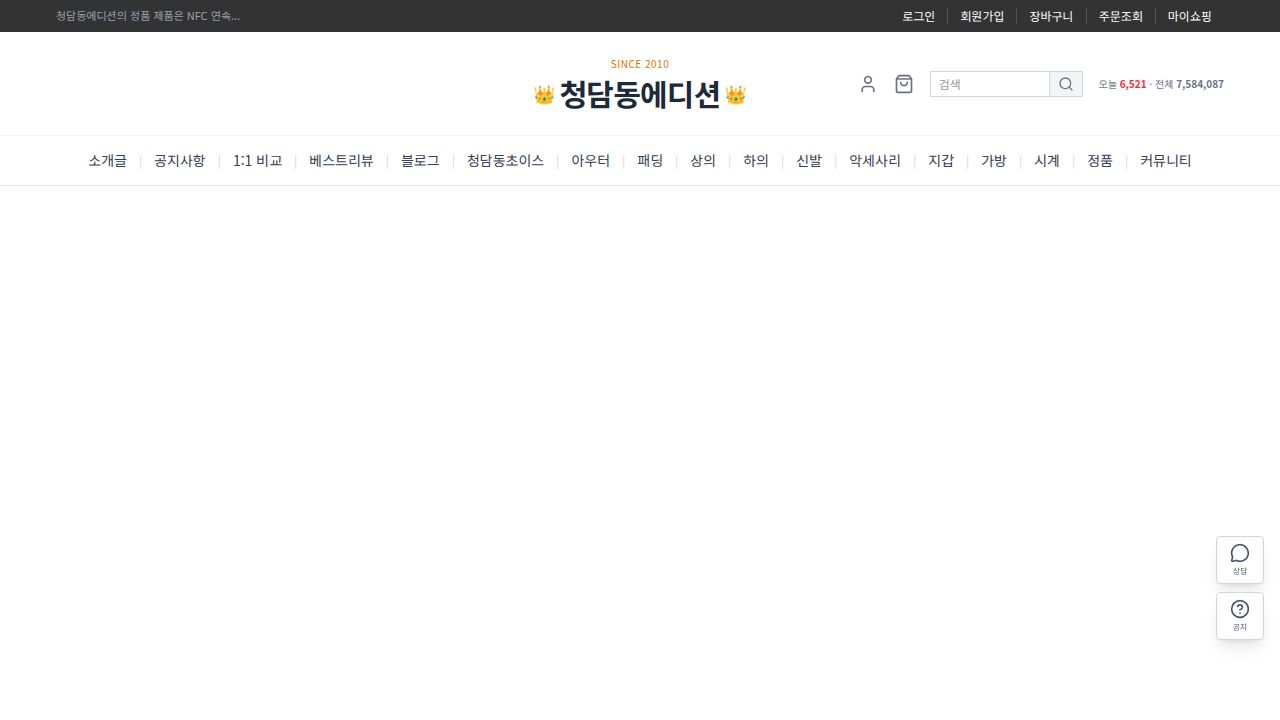
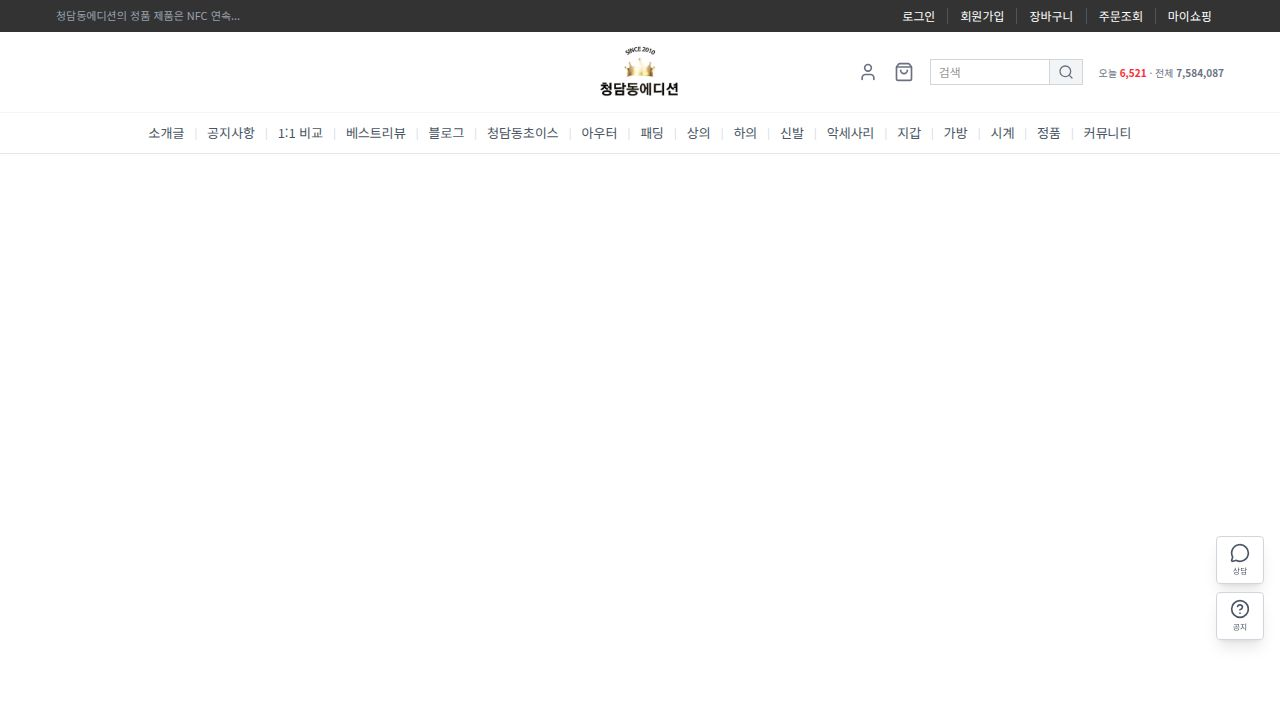
Restored to '36cf14fdb09ba6d2f094dad38653859ef7584fb9'
Replit-Restored-To: 36cf14fdb09ba6d2f094dad38653859ef7584fb9

diff --git a/client/src/components/layout/Header.tsx b/client/src/components/layout/Header.tsx
@@ -144,7 +144,7 @@ export function Header() {
       </div>
 
       <div className="bg-white border-b border-gray-100">
-        <div className="max-w-[1200px] mx-auto px-4 py-5 md:py-6">
+        <div className="max-w-[1200px] mx-auto px-4 py-3">
           <div className="grid grid-cols-3 items-center">
             <div className="md:hidden">
               <Sheet open={mobileMenuOpen} onOpenChange={setMobileMenuOpen}>
@@ -206,13 +206,8 @@ export function Header() {
             </div>
             <div className="hidden md:block"></div>
 
-            <Link href="/" className="flex flex-col items-center justify-self-center" data-testid="link-home">
-              <span className="text-[10px] text-amber-600 tracking-wider mb-1">SINCE 2010</span>
-              <div className="flex items-center gap-1">
-                <span className="text-amber-500 text-lg">👑</span>
-                <span className="text-2xl md:text-3xl font-bold text-gray-800 tracking-tight" style={{ fontFamily: "'Noto Sans KR', sans-serif" }}>청담동에디션</span>
-                <span className="text-amber-500 text-lg">👑</span>
-              </div>
+            <Link href="/" className="flex items-center justify-self-center" data-testid="link-home">
+              <img src="/images/logo.gif" alt="청담동에디션" className="h-12 md:h-14" />
             </Link>
 
             <div className="hidden md:flex items-center justify-end gap-4">
@@ -268,13 +263,13 @@ export function Header() {
               <li key={item.name} className="flex items-center">
                 <Link 
                   href={item.path} 
-                  className={`px-3 py-3.5 text-[14px] text-gray-700 hover:text-black transition-colors whitespace-nowrap ${location === item.path ? 'text-black font-semibold' : ''}`}
+                  className={`px-2.5 py-2.5 text-[13px] text-gray-600 hover:text-black transition-colors whitespace-nowrap ${location === item.path ? 'text-black font-medium' : ''}`}
                   data-testid={`nav-${item.name}`}
                 >
                   {item.name}
                 </Link>
                 {index < mainNavItems.length - 1 && (
-                  <span className="text-gray-300 text-xs">|</span>
+                  <span className="text-gray-300 text-[10px]">|</span>
                 )}
               </li>
             ))}
